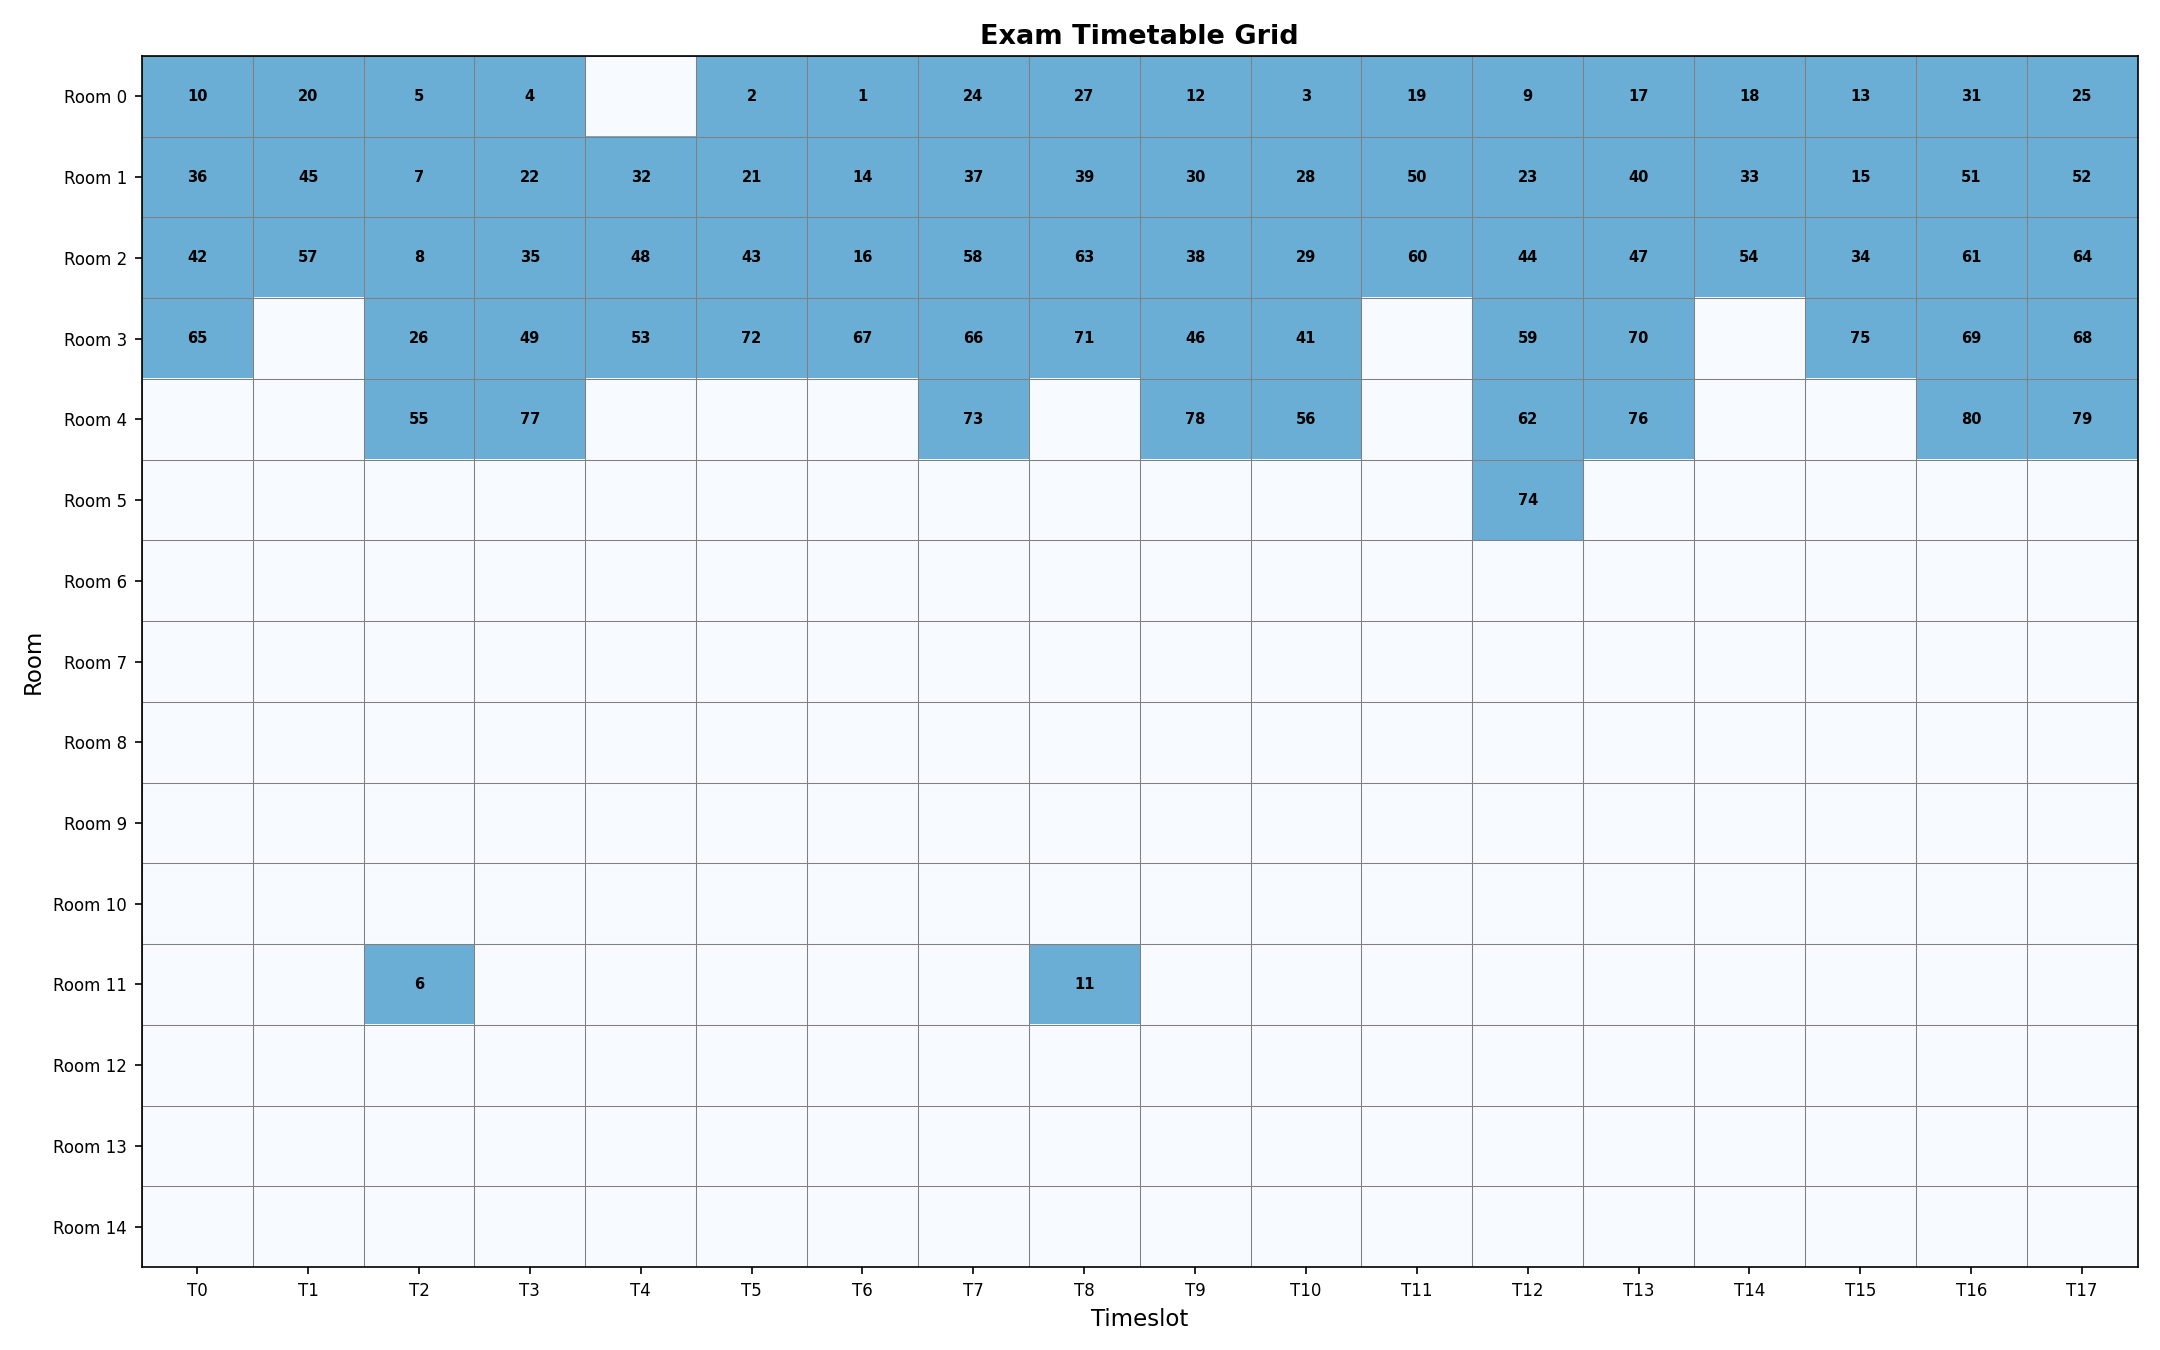
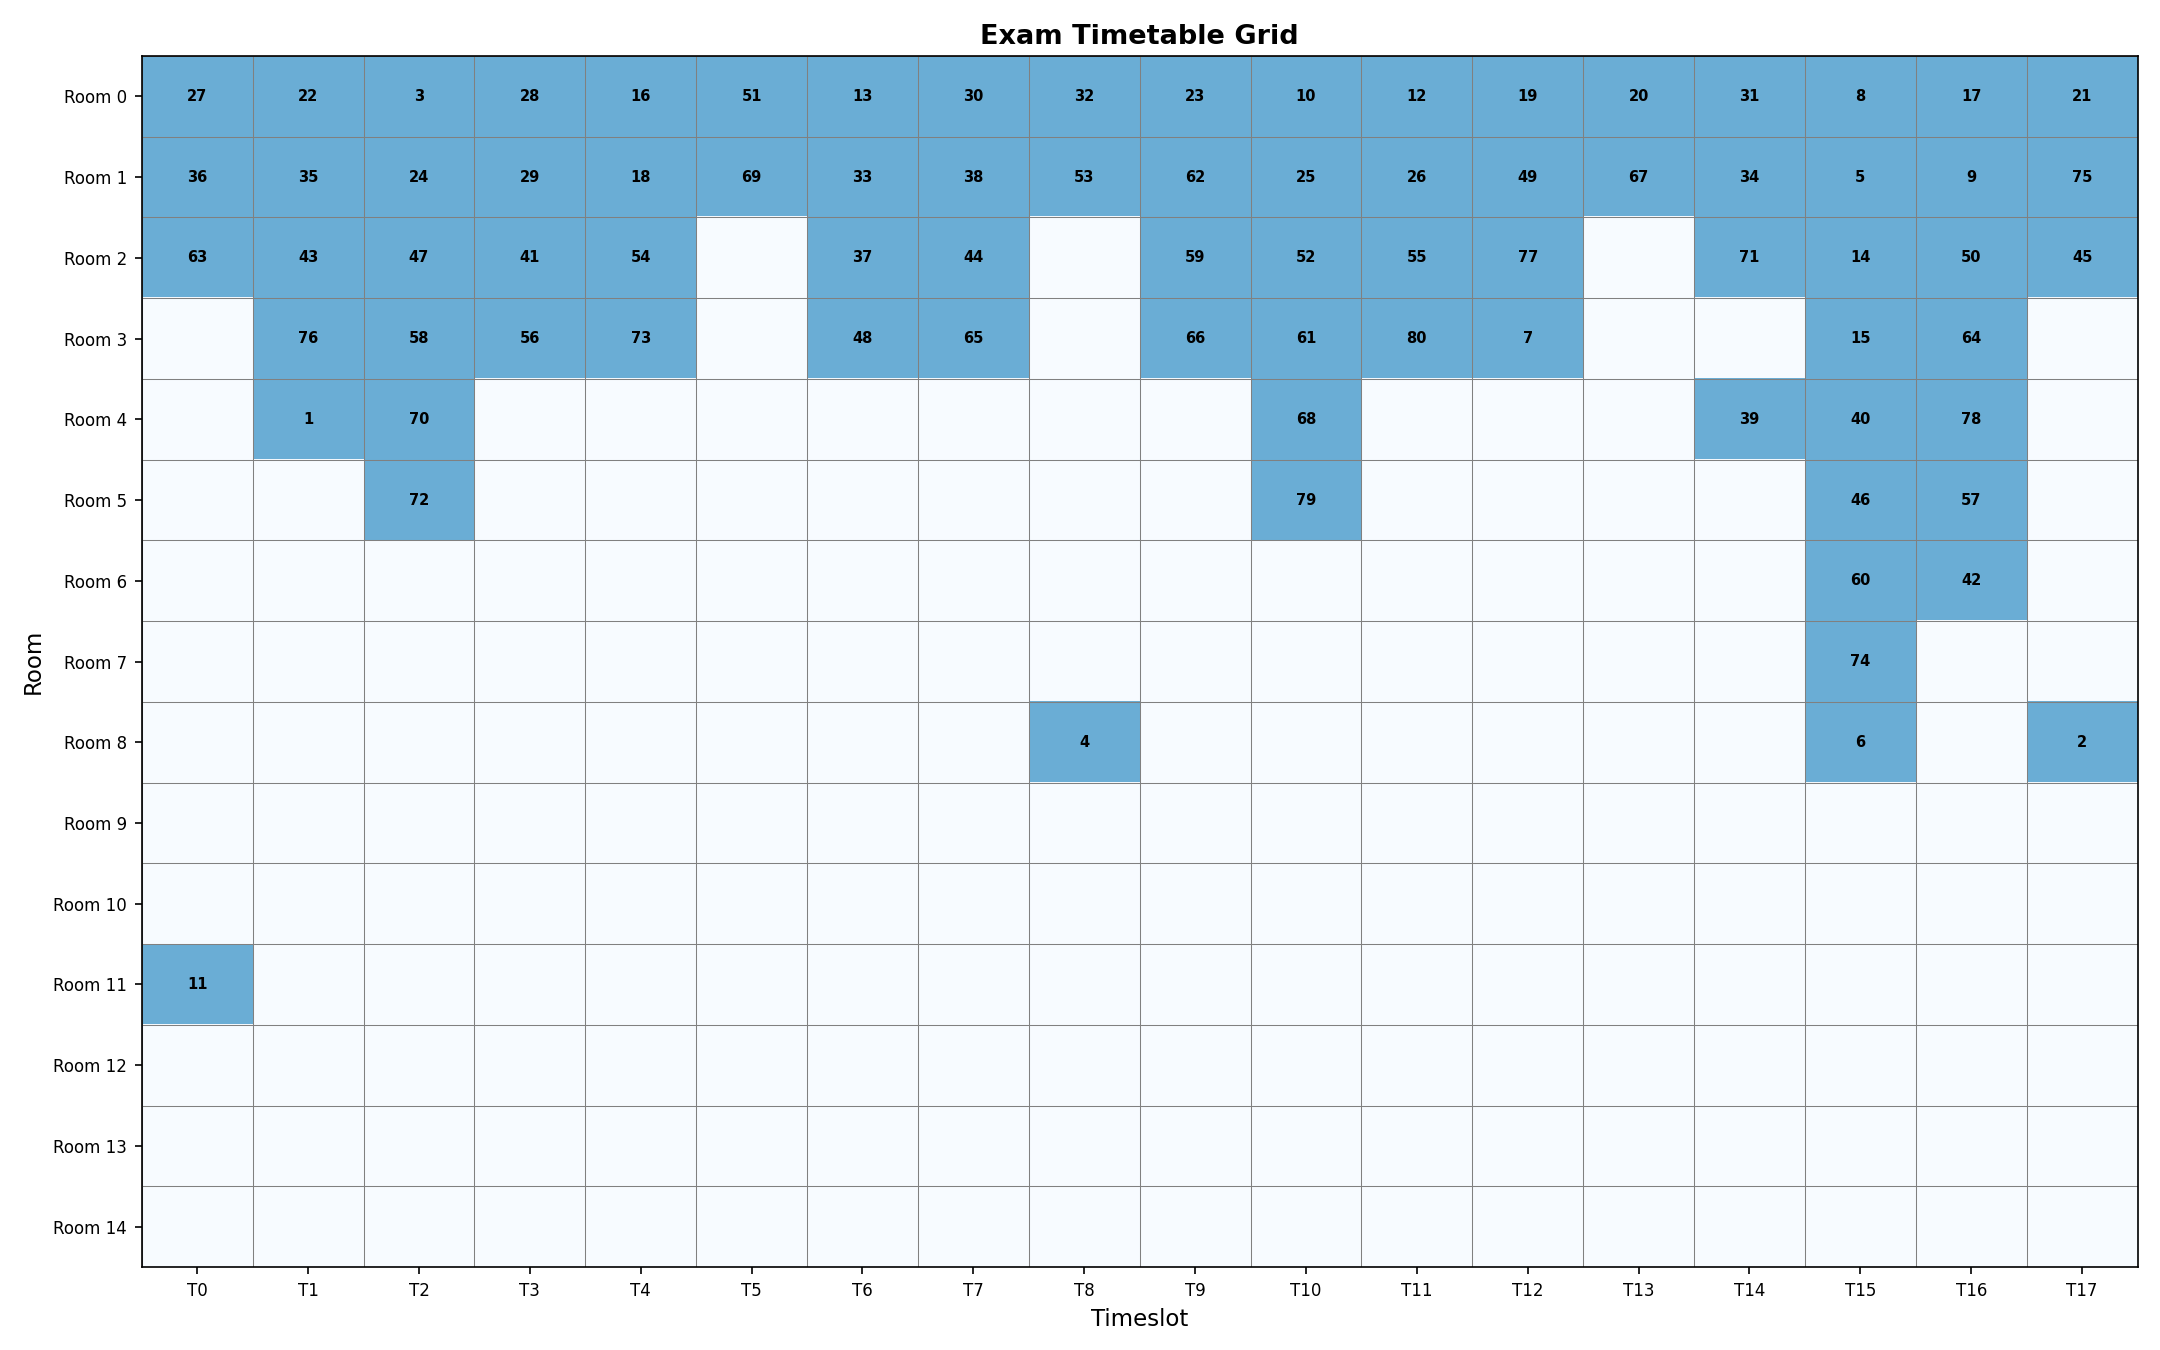
Added a new soft constraint (S4) which focuses on student's consecutive day gap.

diff --git a/src/solvers/cp_solver.py b/src/solvers/cp_solver.py
@@ -3,11 +3,11 @@ CP-SAT based solver for the University Exam Timetabling Problem.
 
 Uses Google OR-Tools' CP-SAT solver to find optimal exam schedules
 that satisfy all six hard constraints (H1-H6) while minimizing
-soft constraint penalties (S1-S3).
+soft constraint penalties (S1-S4).
 
 This is a Constraint Satisfaction Optimization Problem (CSOP):
 - Hard constraints (H1-H6): must be satisfied — modeled with model.add()
-- Soft constraints (S1-S3): should be minimized — modeled with model.minimize()
+- Soft constraints (S1-S4): should be minimized — modeled with model.minimize()
 
 OR-Tools CP-SAT internally handles:
 - Constraint propagation (AC-3, forward checking)
@@ -27,7 +27,10 @@ Soft constraint summary:
   S1 — Instructor Time Preference      (element constraint + AND for penalty)
   S2 — Workload Fairness               (min-max load balancing)
   S3 — Avoid Consecutive Invigilation   (reified slot-activity detection + AND)
+  S4 — Student Consecutive Day Gap      (abs day difference + reified penalty)
 """
+
+from collections import defaultdict
 
 from ortools.sat.python import cp_model
 
@@ -41,7 +44,9 @@ def solve(
     w1: int = 1,
     w2: int = 5,
     w3: int = 2,
+    w4: int = 3,
     enable_s3: bool = True,
+    enable_s4: bool = True,
     time_limit: int = 120
 ) -> tuple[Solution | None, dict]:
     """
@@ -52,7 +57,9 @@ def solve(
         w1: Weight for S1 (instructor preference penalty).
         w2: Weight for S2 (workload fairness penalty).
         w3: Weight for S3 (consecutive invigilation penalty).
-        enable_s3: Whether to include S3 in the objective (can be slow for large instances).
+        w4: Weight for S4 (student consecutive day penalty).
+        enable_s3: Whether to include S3 (can be slow for large instances).
+        enable_s4: Whether to include S4 (can be slow for many students).
         time_limit: Maximum solver time in seconds.
 
     Returns:
@@ -62,7 +69,6 @@ def solve(
     model = cp_model.CpModel()
 
     # ==================== Conflict Graph ====================
-    # Precompute which exam pairs share students (used for H1).
     conflict_graph = build_conflict_graph(exams=instance.exams)
 
     # ==================== Decision Variables ====================
@@ -192,10 +198,8 @@ def solve(
     # Original: penalty2 = Σ_i (load(i) - L̄)²
     # CP-SAT proxy: minimize (max_load - min_load)
     #
-    # Variance requires quadratics which CP-SAT doesn't support natively.
-    # Min-Max fairness is actually stronger — it directly prevents any single
-    # instructor from being disproportionately burdened while others are idle.
-    # This aligns with the Min-Max fairness approach from the paper.
+    # Min-Max fairness directly prevents any single instructor from being
+    # disproportionately burdened while others are idle.
 
     loads = []
     for inst in instance.instructors:
@@ -221,10 +225,6 @@ def solve(
     #   2) Check if instructor is "active" in late slot
     #   3) Penalty = 1 if active in BOTH (AND via min)
     #
-    # "Active in slot t" = OR over all exams of (exam_in_slot_t AND invigilator_assigned)
-    #   - Per-exam AND: add_min_equality(both, [is_in_slot, invigilator])
-    #   - Slot-level OR: add_max_equality(active, [both_for_each_exam])
-    #
     # WARNING: Creates O(instructors × consecutive_pairs × exams) variables.
     # For large instances, disable via enable_s3=False.
 
@@ -243,7 +243,6 @@ def solve(
                 active_late_list = []
 
                 for exam in instance.exams:
-                    # Early slot: is exam here AND is instructor assigned?
                     is_in_early = model.new_bool_var(f"s3_ie_{exam.id}_{inst.id}_{t_early}")
                     model.add(exam_times[exam.id] == t_early).only_enforce_if(is_in_early)
                     model.add(exam_times[exam.id] != t_early).only_enforce_if(is_in_early.negated())
@@ -252,7 +251,6 @@ def solve(
                     model.add_min_equality(both_early, [is_in_early, invigilator[exam.id][inst.id]])
                     active_early_list.append(both_early)
 
-                    # Late slot: same logic
                     is_in_late = model.new_bool_var(f"s3_il_{exam.id}_{inst.id}_{t_late}")
                     model.add(exam_times[exam.id] == t_late).only_enforce_if(is_in_late)
                     model.add(exam_times[exam.id] != t_late).only_enforce_if(is_in_late.negated())
@@ -261,28 +259,128 @@ def solve(
                     model.add_min_equality(both_late, [is_in_late, invigilator[exam.id][inst.id]])
                     active_late_list.append(both_late)
 
-                # OR: instructor active in slot if they invigilate at least one exam there
                 active_in_early = model.new_bool_var(f"s3_ae_{inst.id}_{t_early}")
                 model.add_max_equality(active_in_early, active_early_list)
 
                 active_in_late = model.new_bool_var(f"s3_al_{inst.id}_{t_late}")
                 model.add_max_equality(active_in_late, active_late_list)
 
-                # AND: penalty if active in both consecutive slots
                 consec_penalty = model.new_bool_var(f"s3_{inst.id}_{t_early}_{t_late}")
                 model.add_min_equality(consec_penalty, [active_in_early, active_in_late])
                 s3_cost.append(consec_penalty)
 
-    # ==================== Objective Function ====================
-    # F = w1 * Σ(S1) + w2 * S2 + w3 * Σ(S3)
+    # ==================== S4: Student Consecutive Day Gap ====================
+    # Penalize when a student has exams on consecutive days (or same day).
     #
-    # model.minimize() tells CP-SAT to find the feasible solution
-    # with the lowest total weighted penalty, using branch-and-bound with LNS.
+    # "Consecutive" here means |day(e_a) - day(e_b)| ≤ 1, which includes:
+    #   - Same day (diff=0): student has two exams on the same day (different periods)
+    #   - Adjacent day (diff=1): e.g., Monday + Tuesday, no rest day in between
+    #
+    # The goal is to ensure at least 1 empty day between any two exams
+    # for each student: |day(e_a) - day(e_b)| ≥ 2 is the desired condition.
+    #
+    # Implementation steps:
+    #   1) Derive exam_day variables from exam_times using integer division:
+    #      exam_day[eid] = exam_times[eid] // periods_per_day
+    #      CP-SAT provides add_division_equality(target, numerator, denominator)
+    #
+    #   2) Build a reverse mapping: student_id → list of exam_ids
+    #      This inverts the exam.student_ids sets so we can iterate per-student.
+    #
+    #   3) For each student, for each pair of their exams:
+    #      - Compute the absolute day difference: |day_a - day_b|
+    #        CP-SAT provides add_abs_equality(target, expression)
+    #      - If abs_diff ≤ 1, incur a penalty of 1
+    #        Using reification: penalty=1 ↔ abs_diff ≤ 1
+    #
+    # Variable count: O(students × avg_exams_per_student²). For hec-s-92 with
+    # 2823 students averaging ~4 exams each: ~2823 × 6 pairs = ~17,000 variables.
+    #
+    # NOTE: For very large instances (10,000+ students), consider sampling or
+    # disable via enable_s4=False. Alternatively, limit to students with 3+ exams.
+
+    s4_cost = []
+
+    if enable_s4:
+        # Step 1: Create exam_day variables via integer division
+        # exam_day[eid] = exam_times[eid] ÷ periods_per_day (integer division)
+        # This extracts the day index from the timeslot index.
+        # Example: periods_per_day=3, timeslot=7 → day=2 (7÷3=2), period=1 (7%3=1)
+
+        periods_per_day = max(t.period for t in instance.timeslots) + 1
+        n_days = max(t.day for t in instance.timeslots) + 1
+
+        exam_day = {}
+        for exam in instance.exams:
+            exam_day[exam.id] = model.new_int_var(0, n_days - 1, f"day_{exam.id}")
+            model.add_division_equality(exam_day[exam.id], exam_times[exam.id], periods_per_day)
+
+        # Step 2: Build reverse mapping — student_id → [exam_ids]
+        # We invert the exam.student_ids relationship so we can iterate
+        # per-student and find all their exam pairs efficiently.
+        # defaultdict(list) avoids KeyError for students with only 1 exam.
+
+        student_exams = defaultdict(list)
+        for exam in instance.exams:
+            for sid in exam.student_ids:
+                student_exams[sid].append(exam.id)
+
+        # Step 3: For each student, penalize exam pairs with |day_diff| ≤ 1
+        # Only consider students with 2+ exams (otherwise no pair to check).
+        # Within each student, iterate pairs with i < j to avoid duplicates.
+
+        for sid, eids in student_exams.items():
+            if len(eids) < 2:
+                continue
+
+            for i in range(len(eids)):
+                for j in range(i + 1, len(eids)):
+                    e_a = eids[i]
+                    e_b = eids[j]
+
+                    # Compute signed difference: diff = day_a - day_b
+                    # Range is [-n_days+1, n_days-1] to cover all possibilities
+                    diff = model.new_int_var(-(n_days - 1), n_days - 1, f"s4_diff_{sid}_{e_a}_{e_b}")
+                    model.add(diff == exam_day[e_a] - exam_day[e_b])
+
+                    # Compute absolute difference: abs_diff = |diff|
+                    # CP-SAT's add_abs_equality handles this natively
+                    abs_diff = model.new_int_var(0, n_days - 1, f"s4_abs_{sid}_{e_a}_{e_b}")
+                    model.add_abs_equality(abs_diff, diff)
+
+                    # Reified penalty: penalty = 1 ↔ abs_diff ≤ 1
+                    # If the day gap is 0 (same day) or 1 (consecutive days),
+                    # the student doesn't have enough rest → penalty.
+                    # If abs_diff ≥ 2, there's at least one rest day → no penalty.
+                    #
+                    # Reification ensures the boolean is EXACTLY equivalent:
+                    #   penalty=True  enforces abs_diff ≤ 1
+                    #   penalty=False enforces abs_diff ≥ 2
+                    penalty = model.new_bool_var(f"s4_{sid}_{e_a}_{e_b}")
+                    model.add(abs_diff <= 1).only_enforce_if(penalty)
+                    model.add(abs_diff >= 2).only_enforce_if(penalty.negated())
+
+                    s4_cost.append(penalty)
+
+    # ==================== Objective Function ====================
+    # F = w1 * Σ(S1) + w2 * S2 + w3 * Σ(S3) + w4 * Σ(S4)
+    #
+    # Weights reflect priority:
+    #   w2=5 (fairness is primary goal)
+    #   w4=3 (student comfort is important)
+    #   w3=2 (instructor scheduling comfort)
+    #   w1=1 (preference satisfaction is nice-to-have)
+    #
+    # model.minimize() uses branch-and-bound with LNS to converge
+    # toward the optimal solution within the time limit.
 
     total_s3 = sum(s3_cost) if s3_cost else 0
+    total_s4 = sum(s4_cost) if s4_cost else 0
 
-    total_objective = model.new_int_var(0, 1000000, "total_objective")
-    model.add(total_objective == w1 * sum(s1_cost) + w2 * s2_cost + w3 * total_s3)
+    total_objective = model.new_int_var(0, 10000000, "total_objective")
+    model.add(
+        total_objective == w1 * sum(s1_cost) + w2 * s2_cost + w3 * total_s3 + w4 * total_s4
+    )
     model.minimize(total_objective)
 
     # ==================== Solve ====================
@@ -319,6 +417,7 @@ def solve(
             "s1_penalty": sum(solver.value(v) for v in s1_cost),
             "s2_penalty": solver.value(s2_cost),
             "s3_penalty": sum(solver.value(v) for v in s3_cost) if s3_cost else 0,
+            "s4_penalty": sum(solver.value(v) for v in s4_cost) if s4_cost else 0,
             "wall_time": solver.wall_time,
             "max_load": solver.value(max_load),
             "min_load": solver.value(min_load),

diff --git a/main.py b/main.py
@@ -21,7 +21,8 @@ if __name__ == '__main__':
     print(f"Loaded Carter Instance: {instance}")
 
     # Solve with soft constraints
-    solution, stats = solve(instance=instance, enable_s3=False, time_limit=120)
+    # S3 disabled for speed, S4 enabled for student fairness
+    solution, stats = solve(instance=instance, enable_s3=False, enable_s4=True, time_limit=120)
 
     # Display results
     if solution:
@@ -46,6 +47,7 @@ if __name__ == '__main__':
         print(f"S1 penalty (preference violations): {stats['s1_penalty']}")
         print(f"S2 penalty (workload gap): {stats['s2_penalty']} (max={stats['max_load']}, min={stats['min_load']})")
         print(f"S3 penalty (consecutive invigilation): {stats['s3_penalty']}")
+        print(f"S4 penalty (student consecutive days): {stats['s4_penalty']}")
         print(f"Solve time: {stats['wall_time']:.2f}s")
 
         # Workload distribution
